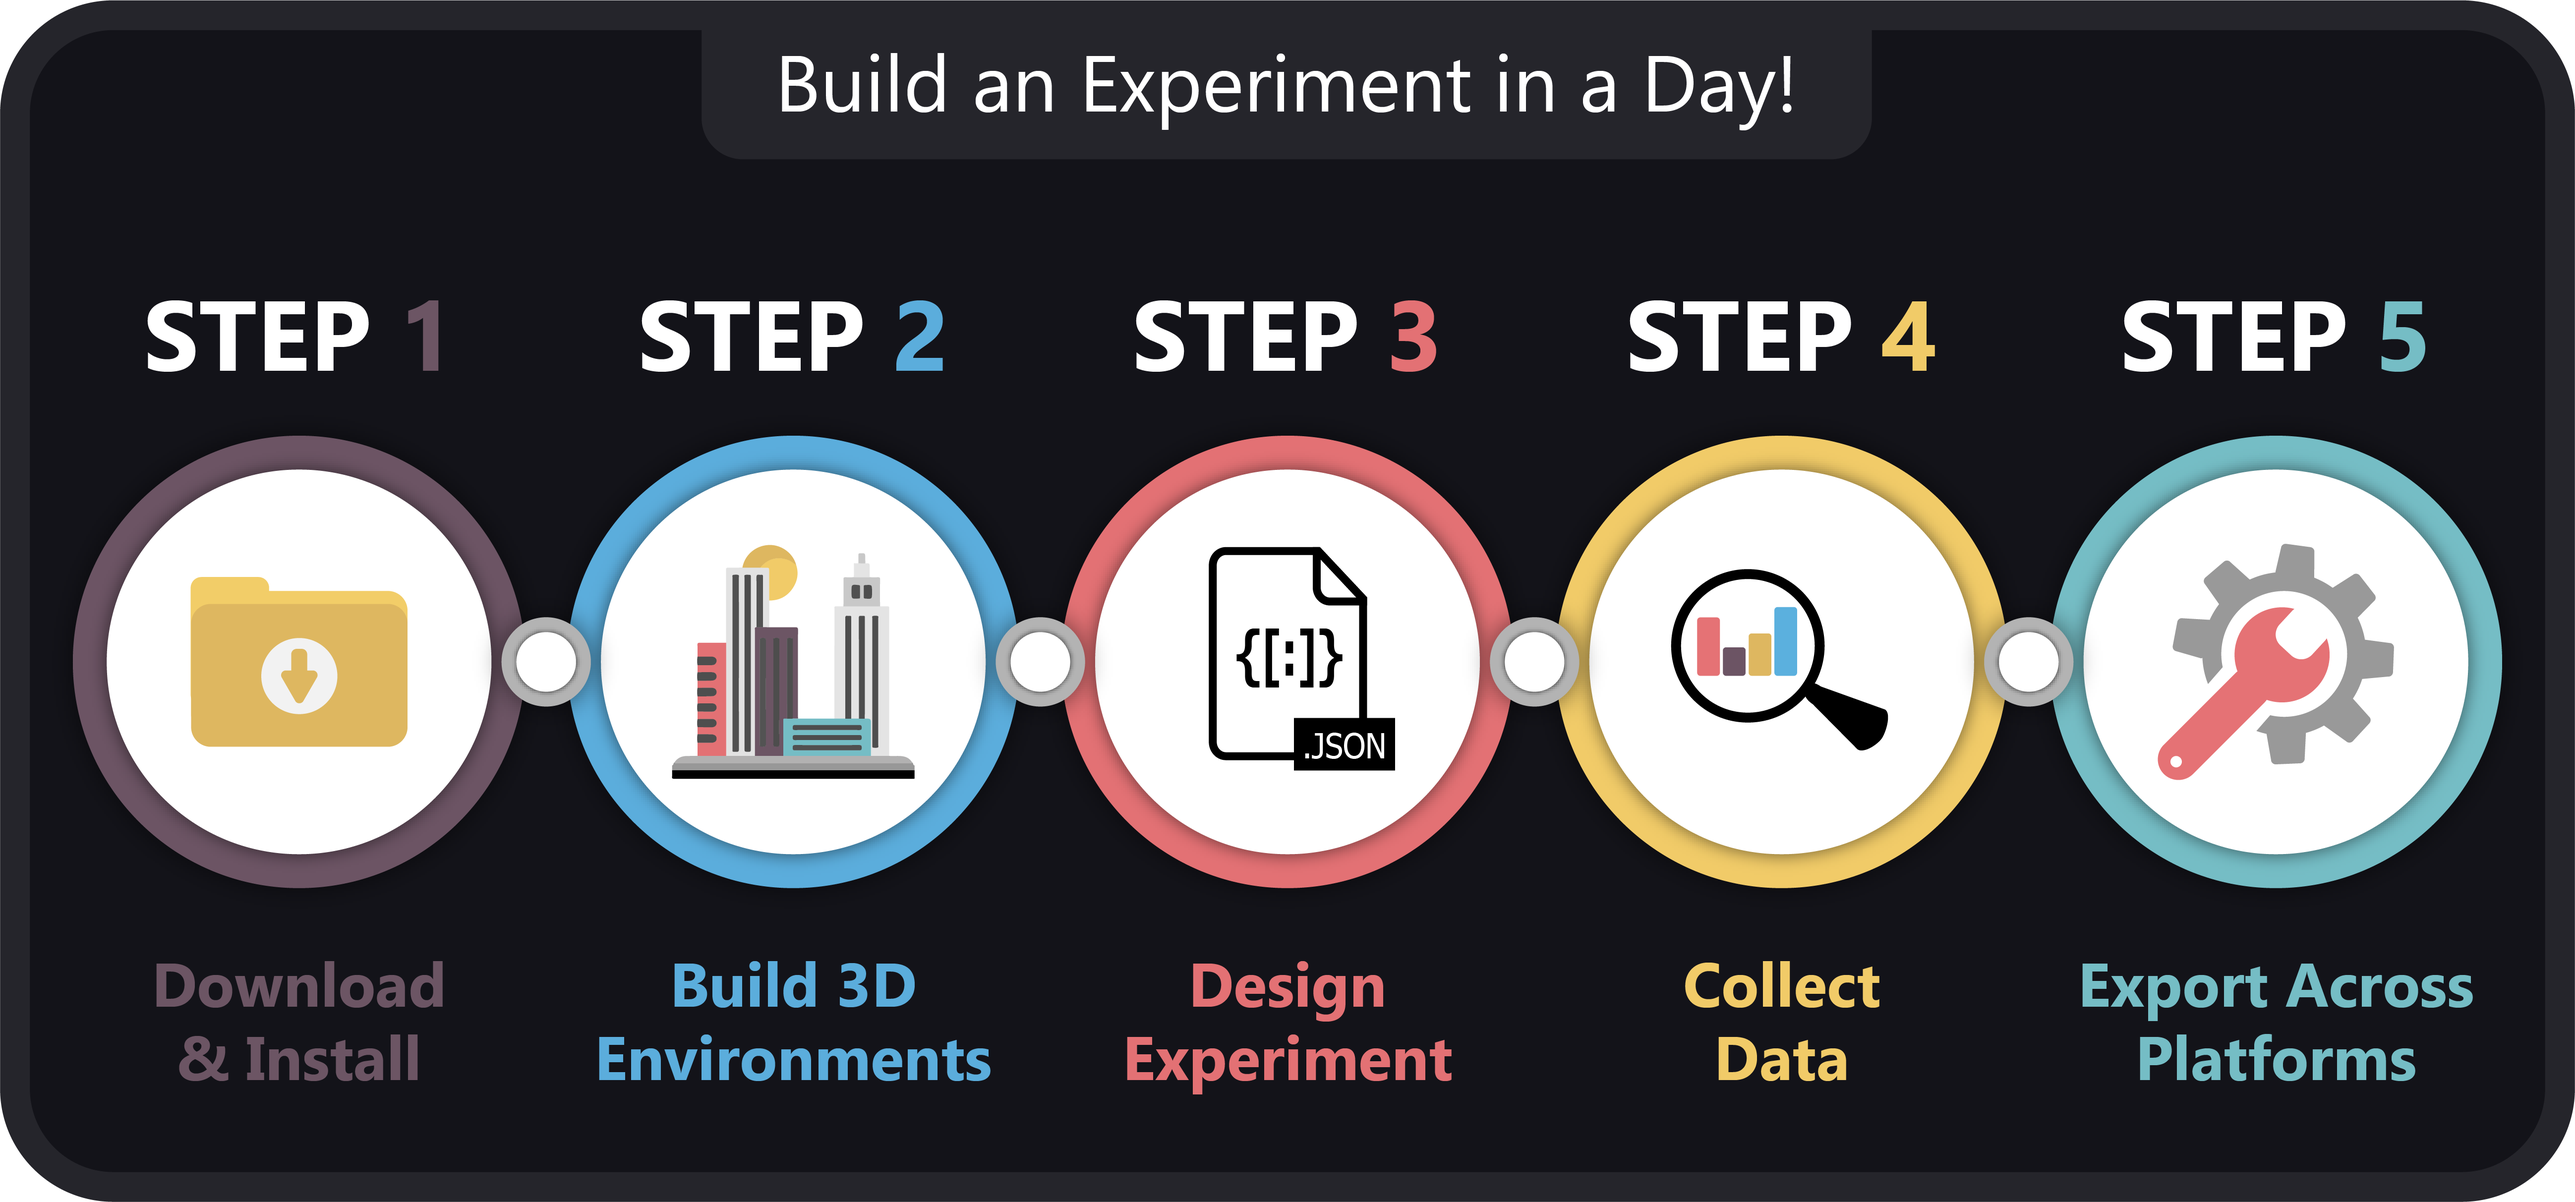
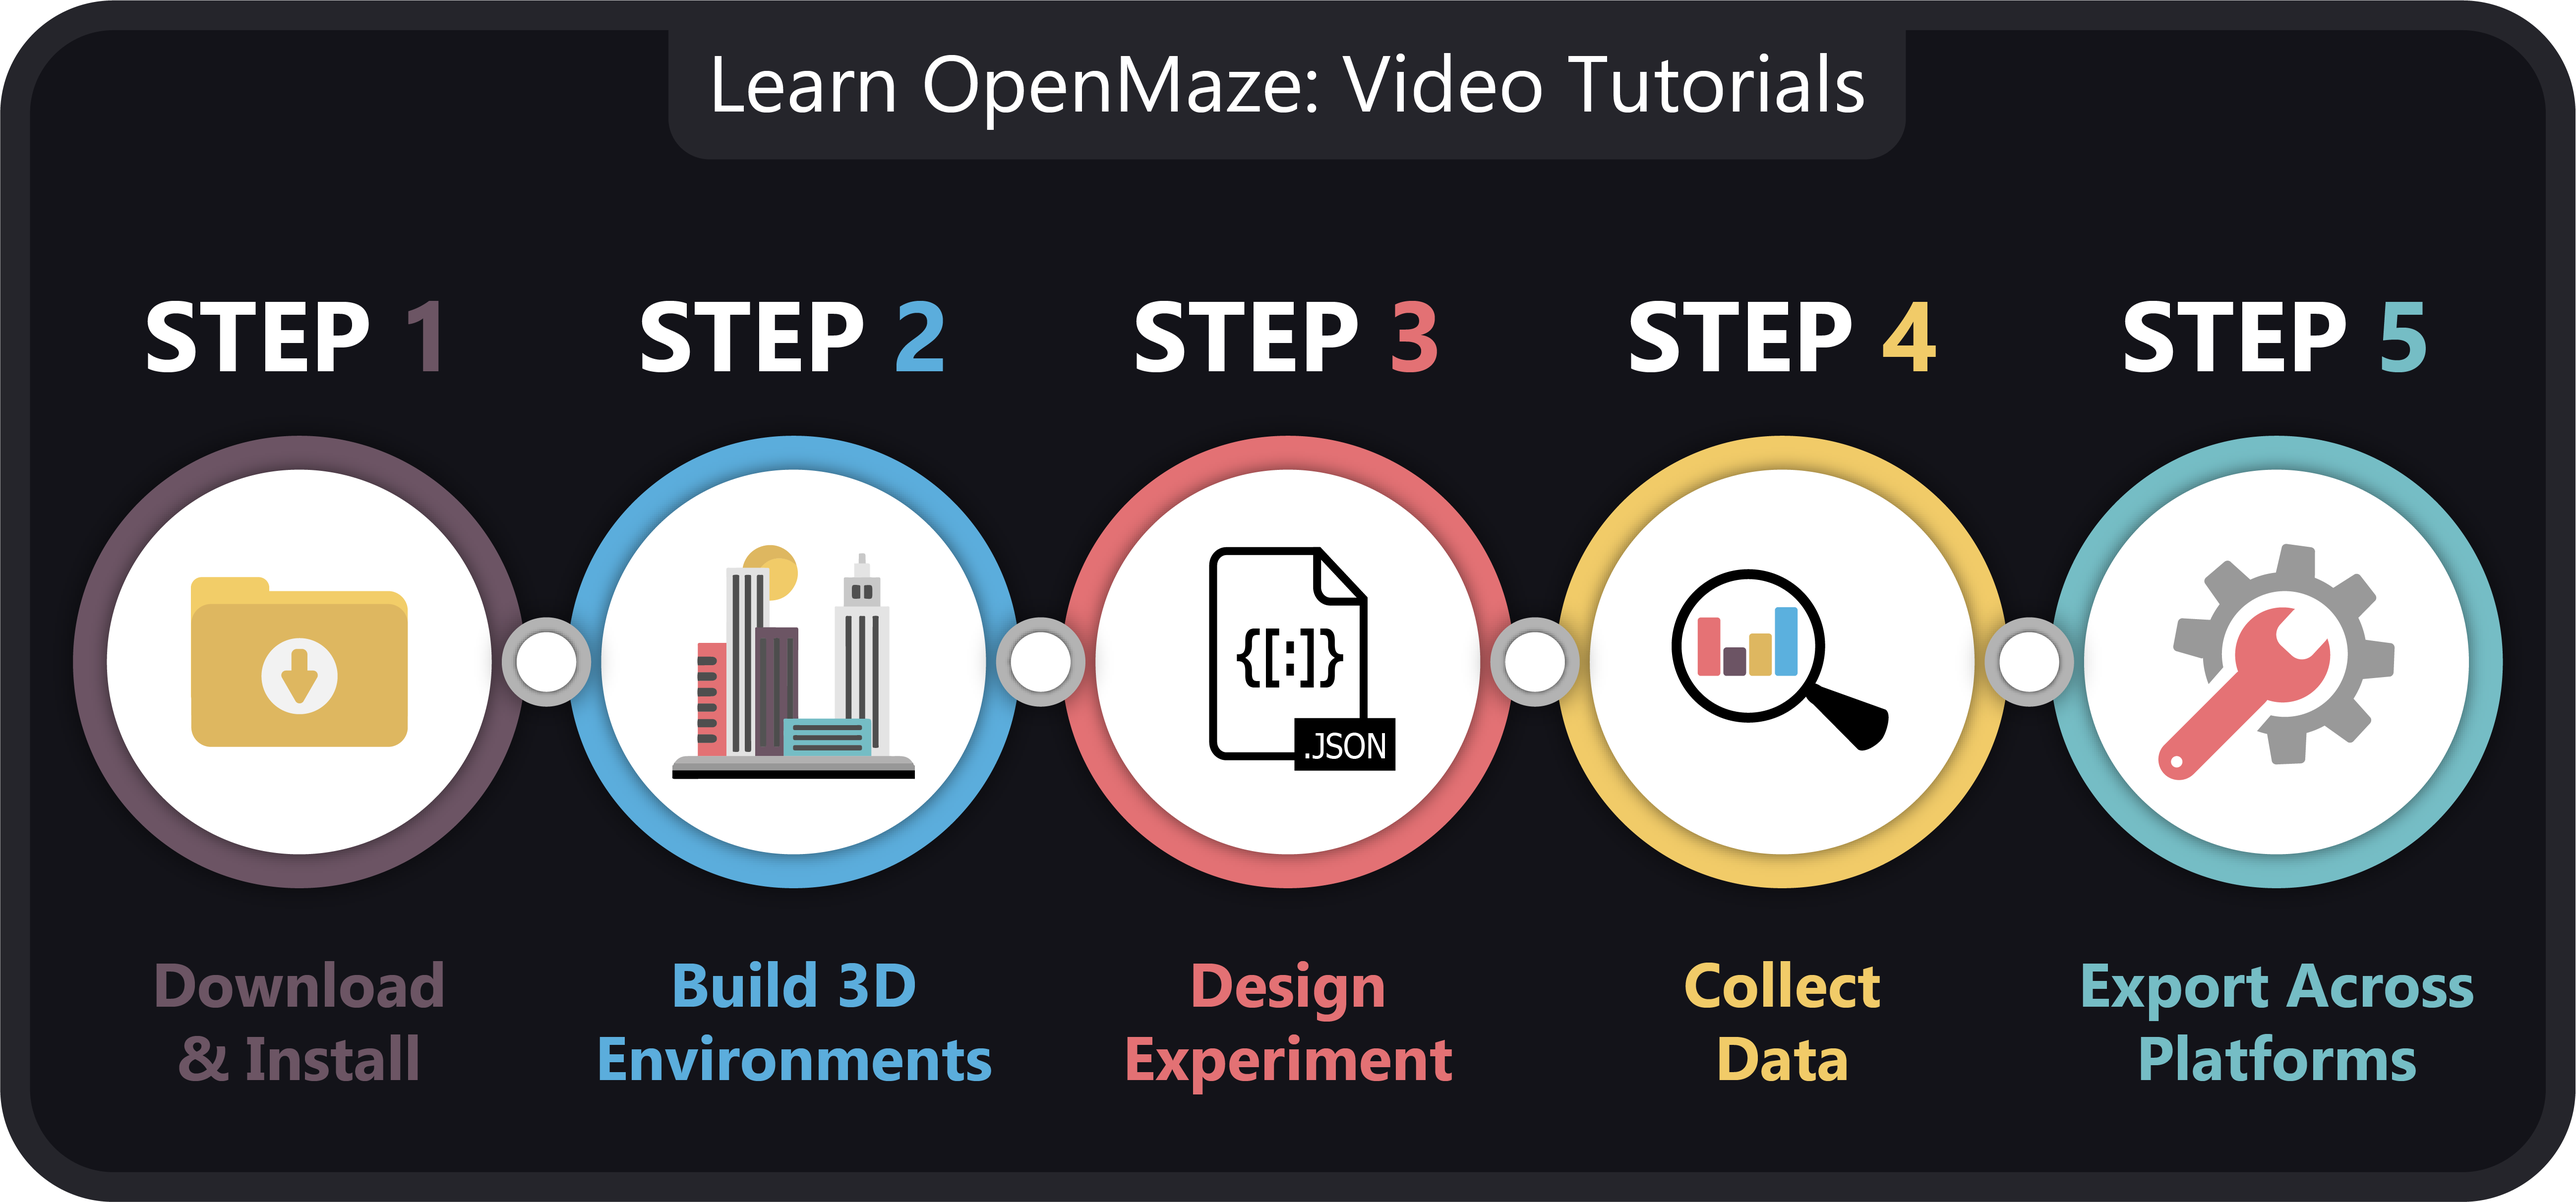
updated LP_1 image and increased text size on index

Changed region(s): [[0.2807, 0.0309, 0.7174, 0.0928], [0.9981, 0.8969, 1.0, 0.9278], [0.9981, 0.0619, 1.0, 0.0928]]

diff --git a/pages/index.js b/pages/index.js
@@ -31,7 +31,7 @@ const Index = () => (
             {/* <p className="text-5xl font-bold">
               Start to Finish Experiment Design.
               </p> */}
-            <p className="mt-6 opacity-75">
+            <p className="mt-6 opacity-75 text-lg">
               OpenMaze is a general-purpose 3D experiment building toolbox,
               developed for the Unity Engine. OpenMaze is easy-to-use and
               requires no prior coding experience, allowing you to spend less
